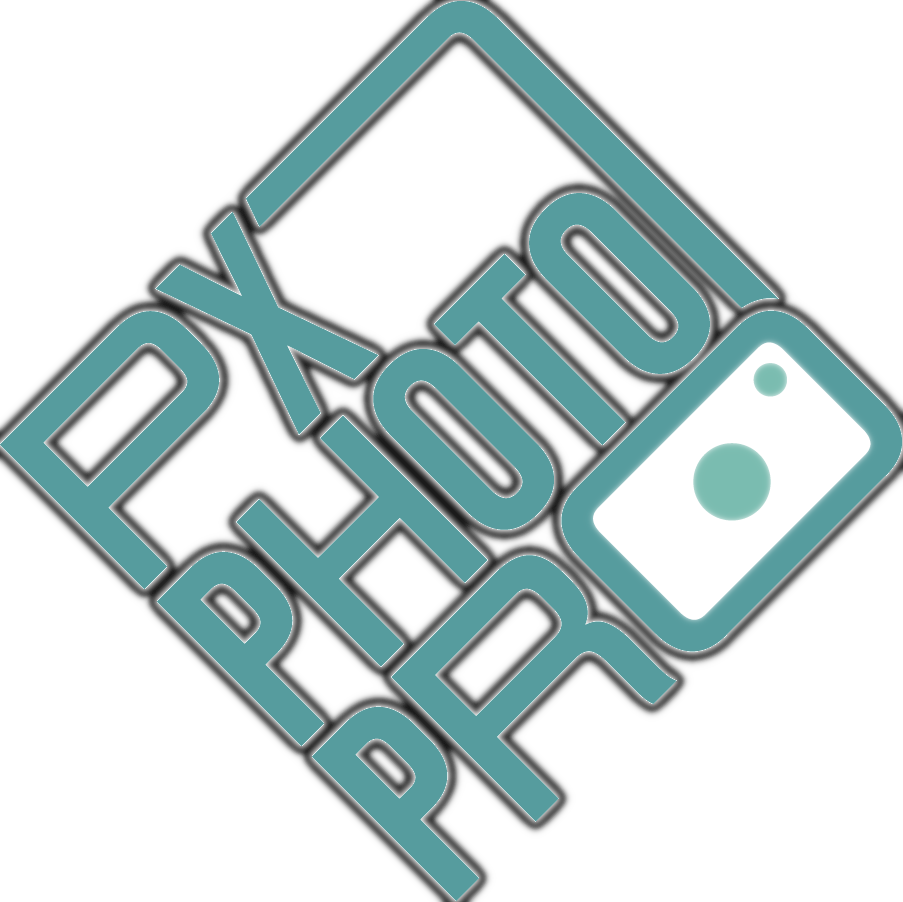
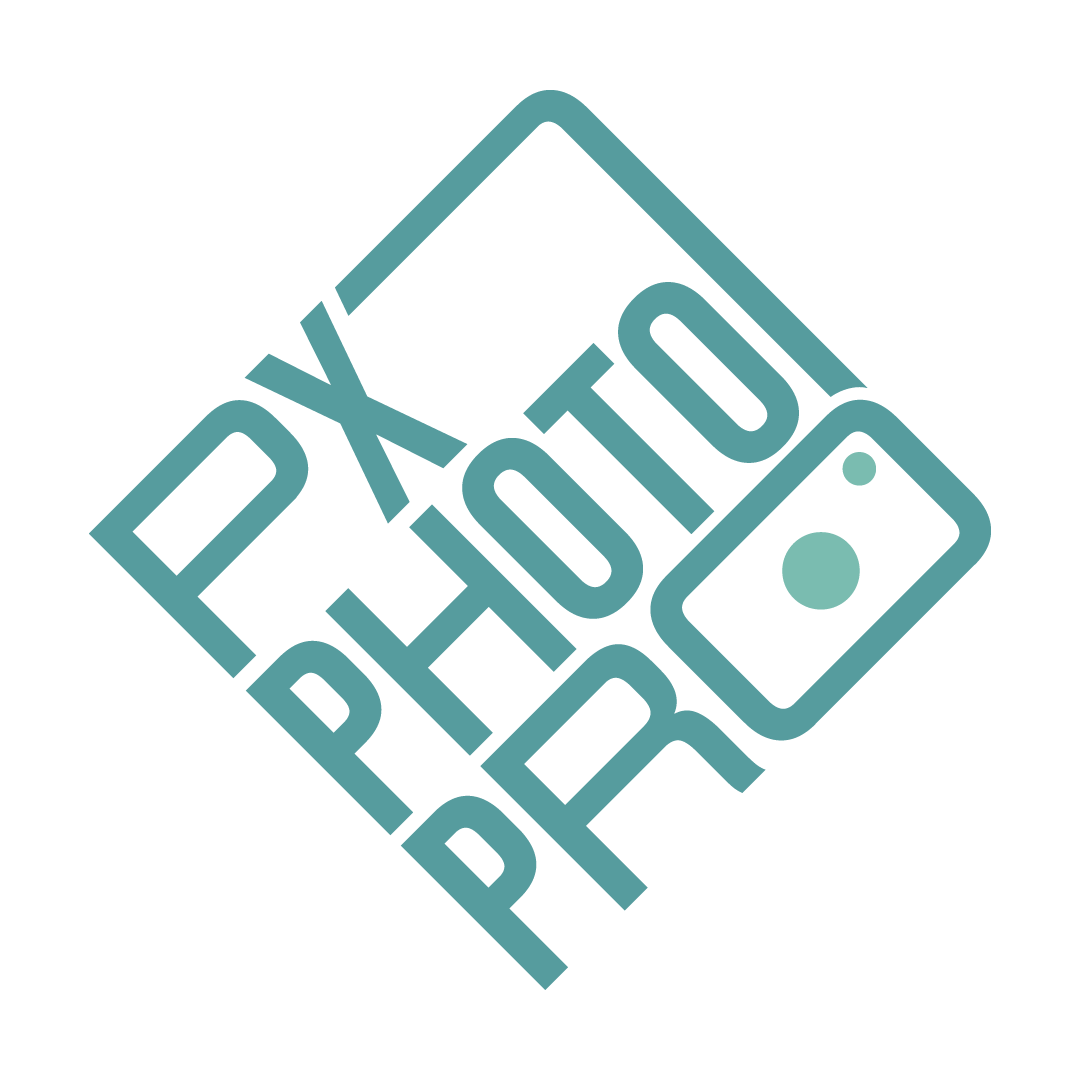
Terms and policies

diff --git a/lib/pages/login/terms_of_use.dart b/lib/pages/login/terms_of_use.dart
@@ -1,0 +1,38 @@
+import 'package:flutter/gestures.dart';
+import 'package:flutter/material.dart';
+
+class TermsOfUse extends StatelessWidget {
+  const TermsOfUse({
+    Key? key,
+  }) : super(key: key);
+  @override
+  Widget build(BuildContext context) {
+    return Padding(
+        padding: const EdgeInsets.all(17.0),
+        child: RichText(
+          textAlign: TextAlign.center,
+          text: TextSpan(
+              text: "Creando una cuenta, estas aceptando nuestros\n",
+              style: TextStyle(color: Color.fromRGBO(221, 252, 212, 1)),
+              children: [
+                TextSpan(
+                  text: "Terms of Service ",
+                  style: const TextStyle(
+                      fontWeight: FontWeight.bold,
+                      fontStyle: FontStyle.italic,
+                      color: Color.fromRGBO(221, 252, 212, 1)),
+                  recognizer: TapGestureRecognizer()..onTap = () {},
+                ),
+                const TextSpan(text: "& "),
+                TextSpan(
+                  text: "Privacy Policy!",
+                  style: const TextStyle(
+                      fontWeight: FontWeight.bold,
+                      fontStyle: FontStyle.italic,
+                      color: Color.fromRGBO(221, 252, 212, 1)),
+                  recognizer: TapGestureRecognizer()..onTap = () {},
+                )
+              ]),
+        ));
+  }
+}

diff --git a/lib/pages/photo/camera_screen.dart b/lib/pages/photo/camera_screen.dart
@@ -2,6 +2,7 @@ import 'dart:io';
 
 import 'package:app_doc/features/global/camera_widgets.dart';
 import 'package:app_doc/features/global/global_config.dart';
+import 'package:app_doc/generated/l10n.dart';
 import 'package:camera/camera.dart';
 import 'package:flutter/material.dart';
 
@@ -102,7 +103,7 @@ class _CameraScreenState extends State<CameraScreen> {
                 children: <Widget>[
                   buildCategory(
                       context,
-                      'Basic',
+                      S.of(context).basic,
                       [
                         Icons.square_outlined,
                         Icons.grid_3x3,
@@ -111,7 +112,7 @@ class _CameraScreenState extends State<CameraScreen> {
                       "G"),
                   buildCategory(
                       context,
-                      'Avanced',
+                      S.of(context).advanced,
                       [
                         Icons.sensor_occupied_outlined,
                         Icons.south_west_rounded,
@@ -129,6 +130,7 @@ class _CameraScreenState extends State<CameraScreen> {
       ),
       floatingActionButton: FloatingActionButton(
         heroTag: "camera",
+        backgroundColor: Color.fromRGBO(18, 62, 89, 1),
         child: Icon(Icons.camera_alt_outlined, size: 40),
         onPressed: () async {
           final image = await _cameraController!.takePicture();

diff --git a/lib/pages/login/dialogs/policy_dialog.dart b/lib/pages/login/dialogs/policy_dialog.dart
@@ -1,0 +1,48 @@
+import 'package:flutter/material.dart';
+import 'package:flutter/services.dart';
+import 'package:flutter_markdown/flutter_markdown.dart';
+
+class PolicyDialog extends StatelessWidget {
+  PolicyDialog({
+    Key? key,
+    this.radius = 8,
+    required this.mdFileName,
+  })  : assert(mdFileName.contains('.md'), 'Th file must be .md'),
+        super(key: key);
+
+  final double radius;
+  final String mdFileName;
+
+  @override
+  Widget build(BuildContext context) {
+    return Dialog(
+      shape:
+          RoundedRectangleBorder(borderRadius: BorderRadius.circular(radius)),
+      child: Column(
+        children: [
+          Expanded(
+            child: FutureBuilder(
+                future: Future.delayed(const Duration(milliseconds: 150))
+                    .then((value) {
+                  return rootBundle.loadString('assets/$mdFileName');
+                }),
+                builder: (context, snapshot) {
+                  if (snapshot.hasData) {
+                    return Markdown(
+                      data: snapshot.data,
+                    );
+                  }
+                  return Center(
+                    child: CircularProgressIndicator,
+                  );
+                }),
+          ),
+          ElevatedButton(
+            onPressed: () {},
+            child: null,
+          )
+        ],
+      ),
+    );
+  }
+}

diff --git a/lib/pages/login/login.dart b/lib/pages/login/login.dart
@@ -1,6 +1,7 @@
 import 'package:app_doc/features/global/commun/header_widget.dart';
 import 'package:app_doc/features/firebase_services/firebase_auth_services.dart';
 import 'package:app_doc/features/global/global_config.dart';
+import 'package:app_doc/pages/login/terms_of_use.dart';
 import 'package:flutter/material.dart';
 import 'package:sign_in_button/sign_in_button.dart';
 import 'package:app_doc/generated/l10n.dart';
@@ -45,6 +46,12 @@ class _LoginScreenState extends State<LoginScreen> {
           crossAxisAlignment: CrossAxisAlignment.center,
           mainAxisSize: MainAxisSize.max,
           children: [
+            const Image(
+              image: AssetImage('assets/imagotipoColor.png'),
+            ),
+            const SizedBox(
+              height: 0,
+            ),
             _googleSignInButton(),
             const SizedBox(
               height: 10,
@@ -53,7 +60,11 @@ class _LoginScreenState extends State<LoginScreen> {
             const SizedBox(
               height: 10,
             ),
-            _emailSignInButton()
+            _emailSignInButton(),
+            const SizedBox(
+              height: 30,
+            ),
+            const TermsOfUse(),
           ],
         ),
       ),

diff --git a/lib/pages/user/user_info.dart b/lib/pages/user/user_info.dart
@@ -85,7 +85,7 @@ class _UserScreenState extends State<UserScreen> {
                               ),
                               child: Column(children: [
                                 Text(
-                                  'Cambiar Suscripcion',
+                                  S.of(context).changeSubscrip,
                                   style: TextStyle(
                                       fontSize: 28,
                                       color: Color.fromRGBO(221, 252, 212, 1)),

diff --git a/README.md b/README.md
@@ -15,8 +15,9 @@ ESTARAN ORGANIZADO DE OSCURO A CLARO SIGUIENDO EL FORMATO RGBO EN LA PALETA DARK
 (221, 252, 212, 1)
 
 
+*------- I C O N O  DE  L A  A P P -------*
+EL ICONO DE LA APP SE PODRA CAMBIAR REALIZANDO LOS SIGUIENTES PASOS:
 
-Icono de la App 
 -Cambiar imagen en pubspec.yaml/ flutter_icons / image_path
 -Guardar
 -ejecutar en terminal: 

diff --git a/assets/terms_and_conditions.md b/assets/terms_and_conditions.md
@@ -1,0 +1,1 @@
+terms_and_conditions.md

diff --git a/assets/privacy_policy.md b/assets/privacy_policy.md
@@ -1,0 +1,1 @@
+Hola
